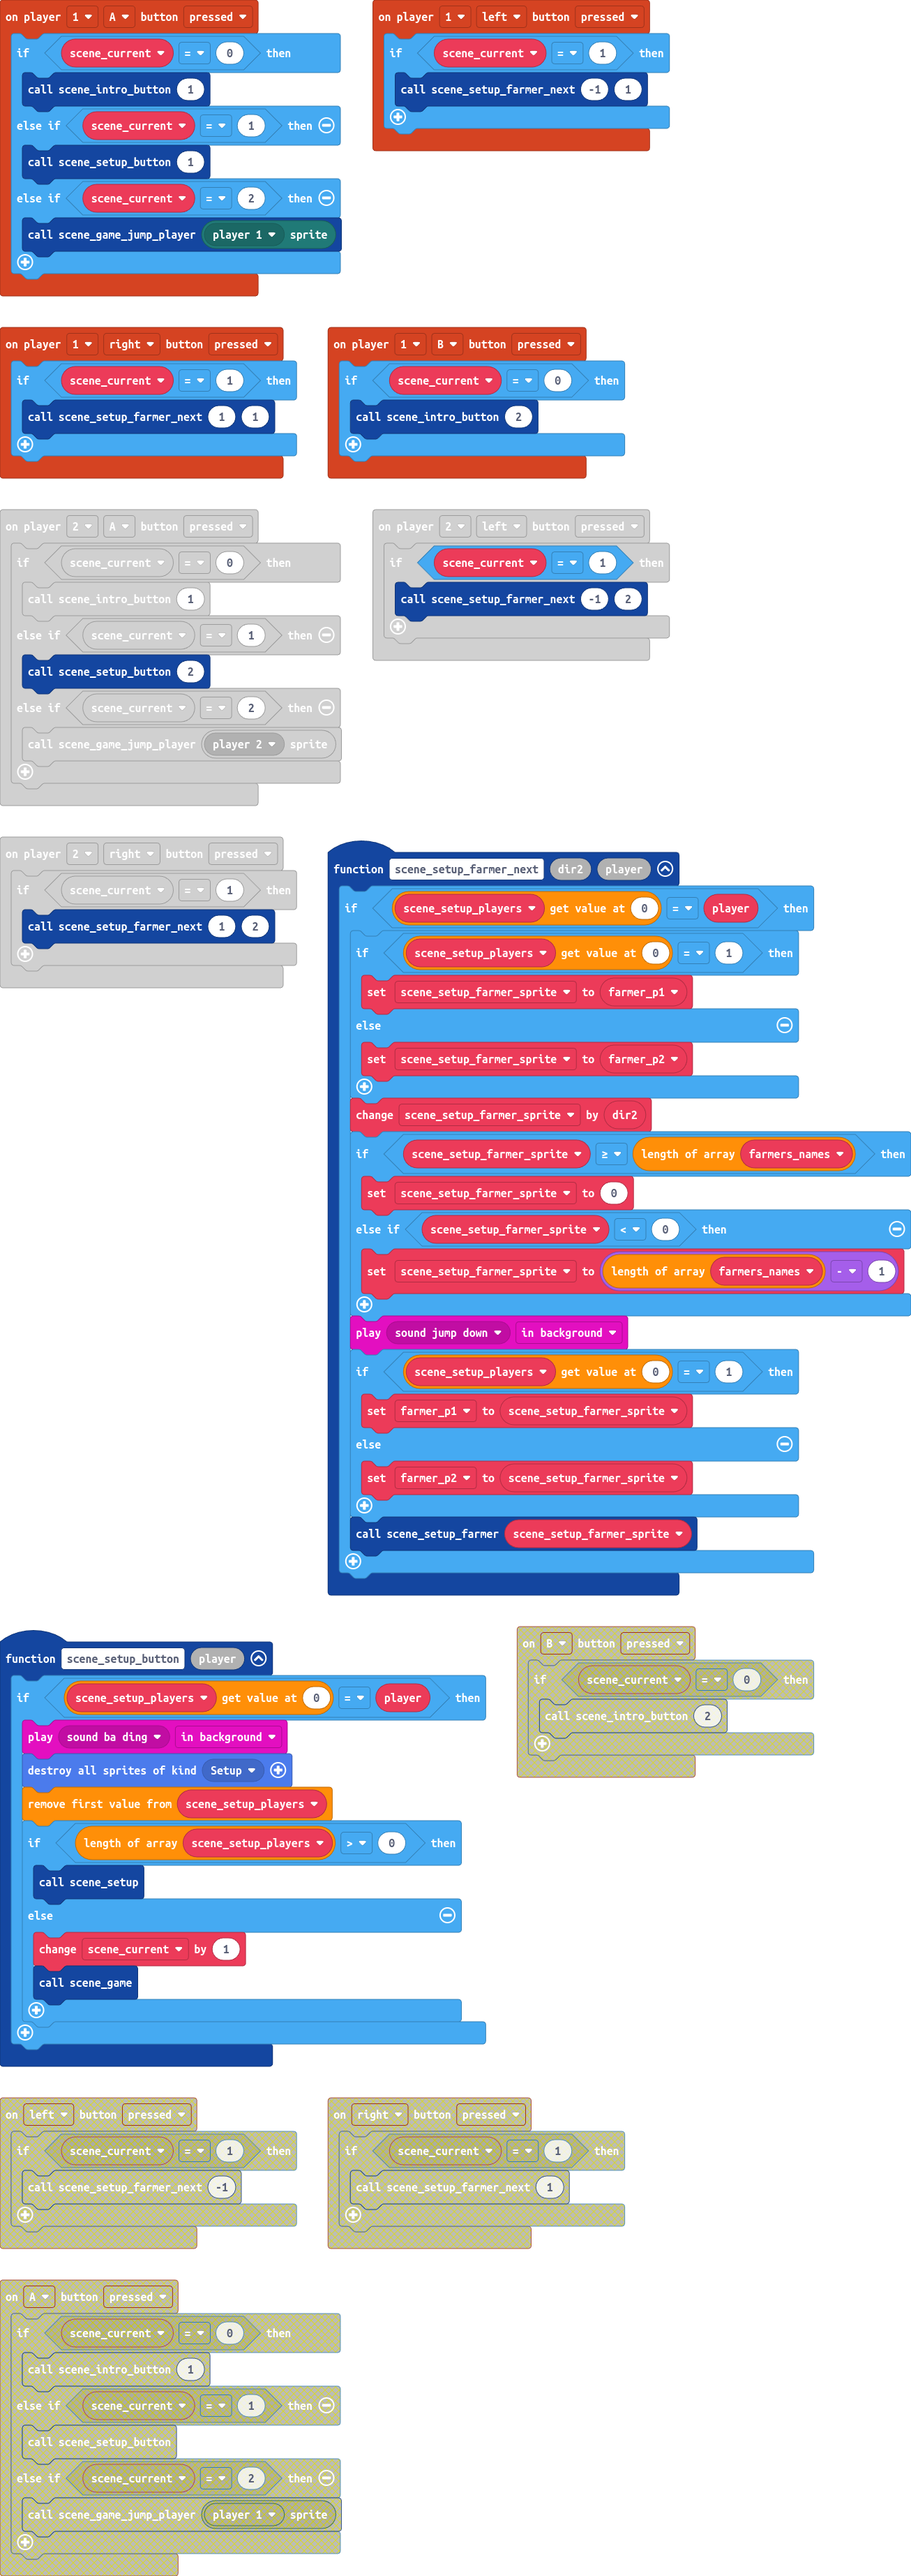
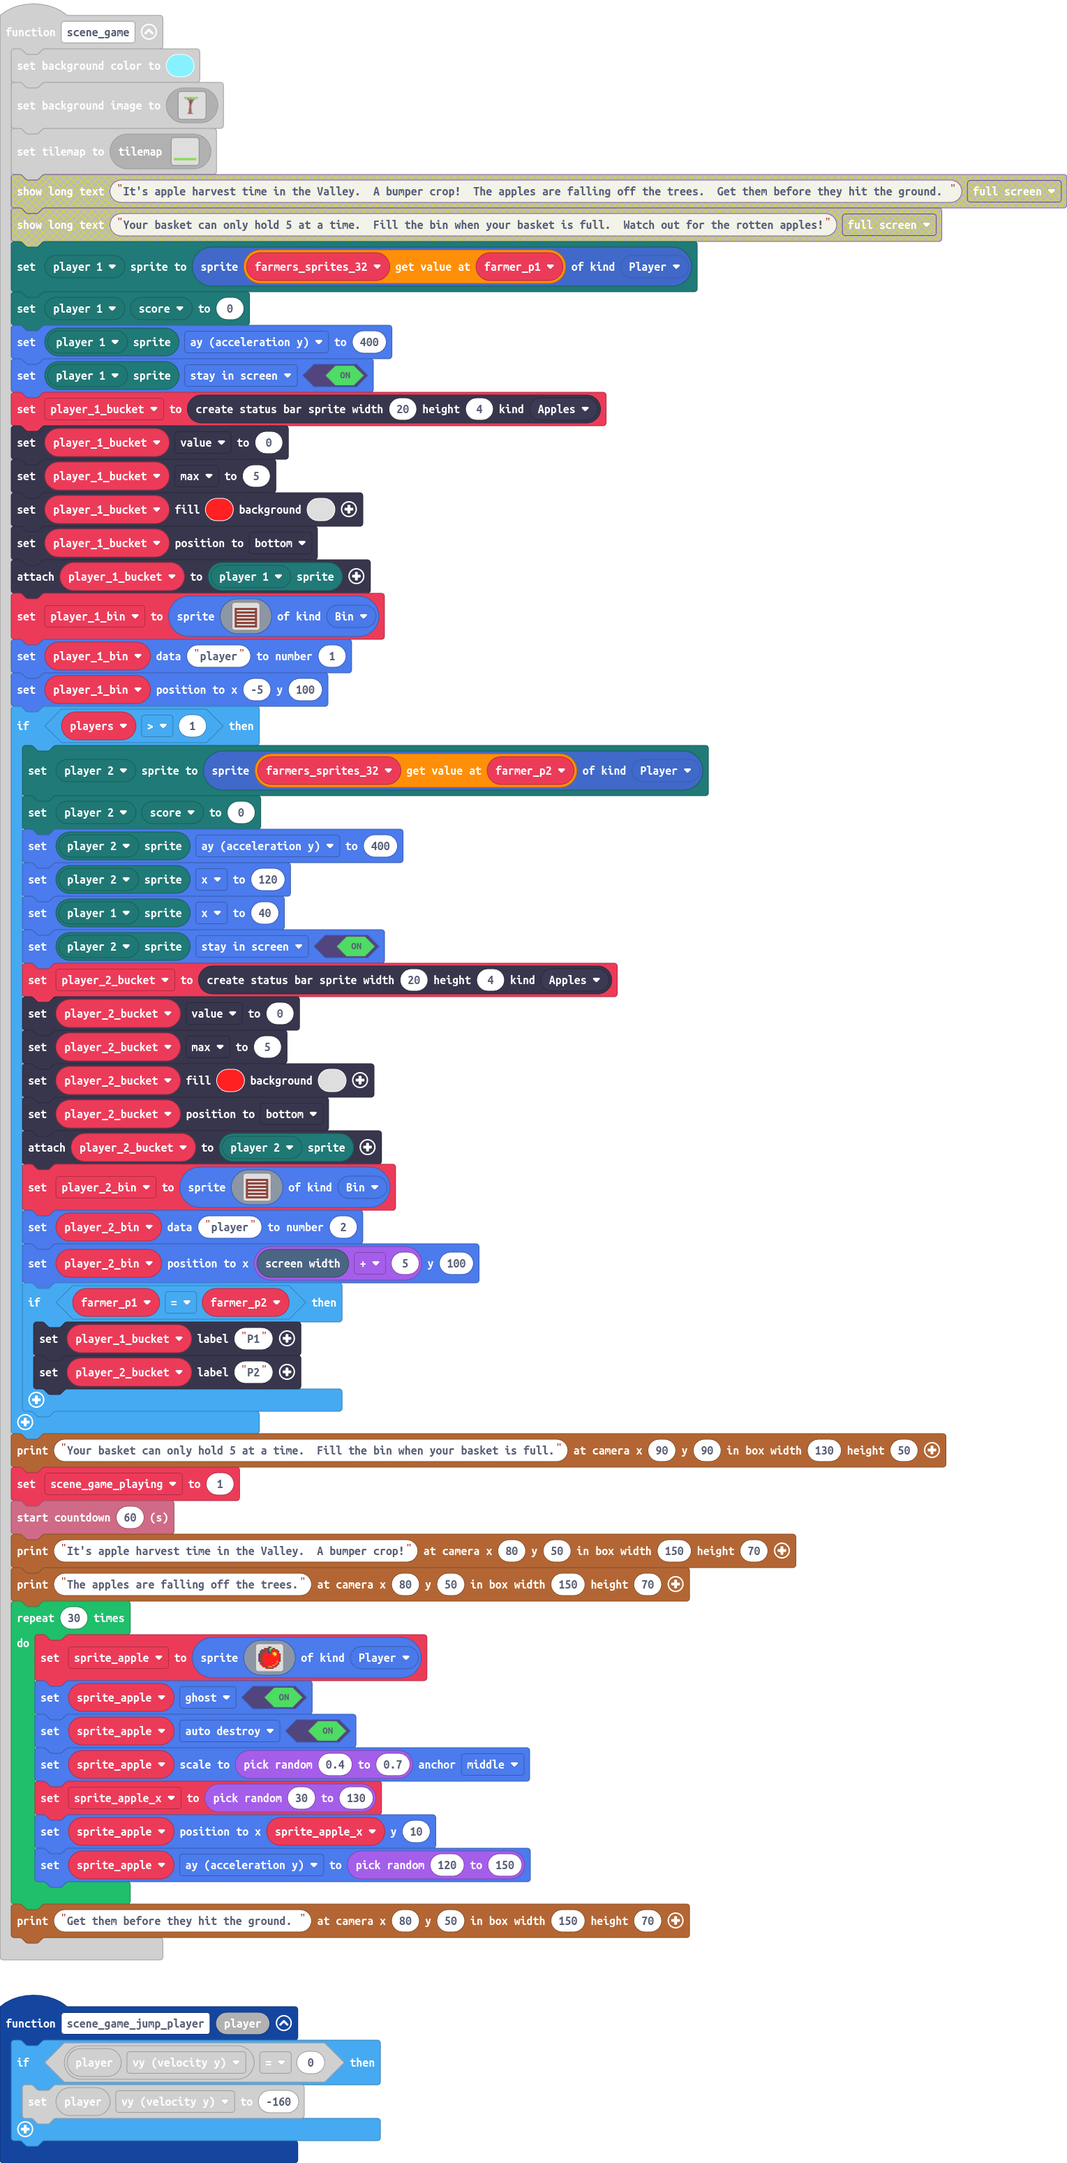
Better game rules

diff --git a/main.ts b/main.ts
@@ -303,8 +303,18 @@ function scene_game () {
         ..............................................eeeeeeeeeeeeeeeeeeeeeeeeeeeeeeeeeeeeeeeeeeee......................................................................
         `)
     tiles.setCurrentTilemap(tilemap`level2`)
-    game.showLongText("It's apple harvest time in the Valley.  A bumper crop!  The apples are falling off the trees.  Get them before they hit the ground. ", DialogLayout.Full)
-    game.showLongText("Your basket can only hold 5 at a time.  Fill the bin when your basket is full.  Watch out for the rotten apples!", DialogLayout.Full)
+    story.printDialog("It's apple harvest time in the Valley.  A bumper crop!", 80, 50, 70, 150)
+    story.printDialog("The apples are falling off the trees.", 80, 50, 70, 150)
+    for (let index = 0; index < 30; index++) {
+        sprite_apple = sprites.create(assets.image`sprite_apple`, SpriteKind.Player)
+        sprite_apple.setFlag(SpriteFlag.Ghost, true)
+        sprite_apple.setFlag(SpriteFlag.AutoDestroy, true)
+        sprite_apple.setScale(randint(0.4, 0.7), ScaleAnchor.Middle)
+        sprite_apple_x = randint(30, 130)
+        sprite_apple.setPosition(sprite_apple_x, 10)
+        sprite_apple.ay = randint(120, 150)
+    }
+    story.printDialog("Get them before they hit the ground. ", 80, 50, 70, 150)
     mp.setPlayerSprite(mp.playerSelector(mp.PlayerNumber.One), sprites.create(farmers_sprites_32[farmer_p1], SpriteKind.Player))
     mp.setPlayerState(mp.playerSelector(mp.PlayerNumber.One), MultiplayerState.score, 0)
     mp.getPlayerSprite(mp.playerSelector(mp.PlayerNumber.One)).ay = 400
@@ -339,6 +349,7 @@ function scene_game () {
             player_2_bucket.setLabel("P2")
         }
     }
+    story.printDialog("Your basket can only hold 5 at a time.  Fill the bin when your basket is full.", 90, 90, 50, 130)
     scene_game_playing = 1
     info.startCountdown(60)
 }
@@ -409,6 +420,7 @@ let player_2_dx = 0
 let player_1_dx = 0
 let player_2_bin: Sprite = null
 let player_1_bin: Sprite = null
+let sprite_apple_x = 0
 let sprite_setup_right: Sprite = null
 let sprite_setup_left: Sprite = null
 let sprite_farmer: Sprite = null
